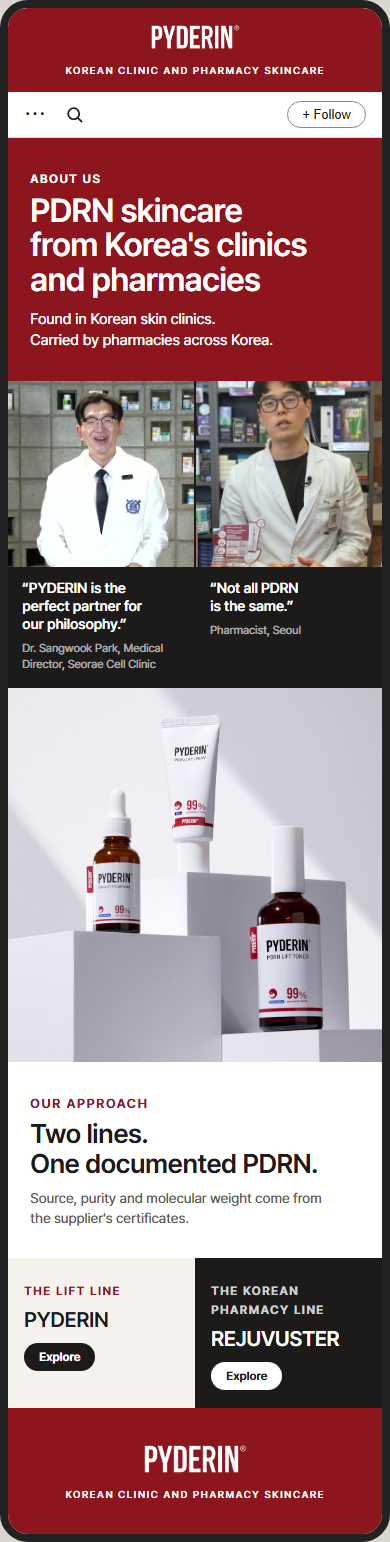
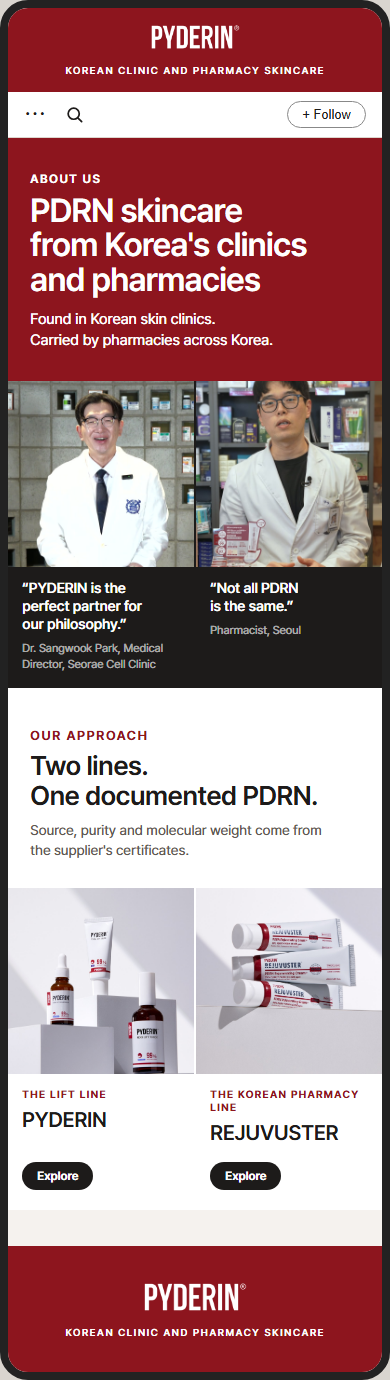
ABOUT US: 두 라인 문구 아래에 각 라인 사진 칸

diff --git a/index.html b/index.html
@@ -331,6 +331,7 @@
   .tiles div { position: absolute; left: 14px; right: 10px; top: 14px; }
   .tiles .eyebrow { font-size: 10.5px; color: var(--red); }
   .tiles b { display: block; font-size: 21px; font-weight: 600; letter-spacing: -.02em; margin: 6px 0 0; }
+  .t2 { background: #fff; } .t2 a { background: #fff; padding-bottom: 20px; } .t2 img { aspect-ratio: 1; } .t2 div { position: static; padding: 14px 14px 0; min-height: 76px; } .t2 u { position: static !important; display: inline-block; margin: 12px 14px 0; }
   .tiles u { position: absolute; left: 14px; bottom: 14px; text-decoration: none; font-size: 12px; font-weight: 600; background: var(--ink); color: #fff; border-radius: 999px; padding: 7px 15px; }
   /* v4 */
   .s4 { display: grid; grid-template-columns: 1fr 1fr; border-top: 1px solid var(--ink); margin: 0 22px; }
@@ -442,9 +443,8 @@
       <div><img src="img/dr-park.jpg" alt=""><p><q>PYDERIN is the perfect partner for our philosophy.</q><span>Dr. Sangwook Park, Medical Director, Seorae Cell Clinic</span></p></div>
       <div><img src="img/ph-byul2.jpg" alt=""><p><q>Not all PDRN is the same.</q><span>Pharmacist, Seoul</span></p></div>
     </div></div>
-  <div class="sec"><img src="img/v3/lift-blocks2.jpg" alt="" style="width:100%;aspect-ratio:1;object-fit:cover;object-position:50% 62%">
-    <div class="pq" style="padding:24px 22px 30px"><span class="eyebrow" style="color:var(--red);margin-bottom:8px">Our approach</span><q style="quotes:none;font-size:27px;font-weight:600;letter-spacing:-.025em;line-height:1.08">Two lines.<br>One documented PDRN.</q><span style="font-size:14px;line-height:1.45;max-width:300px">Source, purity and molecular weight come from the supplier's certificates.</span></div></div>
-  <div class="pair" style="gap:0"><a href="#pyderin" style="background:var(--ground);color:var(--ink);padding:22px 16px 24px"><span style="position:static;color:var(--red)">The Lift line</span><b style="display:block;font-size:21px;font-weight:600;letter-spacing:-.02em;margin:8px 0 14px">PYDERIN</b><u style="text-decoration:none;font-size:12px;font-weight:600;background:var(--ink);color:#fff;border-radius:999px;padding:7px 15px">Explore</u></a><a href="#rejuvuster" style="background:var(--ink);color:#fff;padding:22px 16px 24px"><span style="position:static;opacity:.8">The Korean pharmacy line</span><b style="display:block;font-size:21px;font-weight:600;letter-spacing:-.02em;margin:8px 0 14px">REJUVUSTER</b><u style="text-decoration:none;font-size:12px;font-weight:600;background:#fff;color:var(--ink);border-radius:999px;padding:7px 15px">Explore</u></a></div>
+  <div class="sec"><div class="pq" style="padding:30px 22px 28px"><span class="eyebrow" style="color:var(--red);margin-bottom:8px">Our approach</span><q style="quotes:none;font-size:27px;font-weight:600;letter-spacing:-.025em;line-height:1.08">Two lines.<br>One documented PDRN.</q><span style="font-size:14px;line-height:1.45;max-width:300px">Source, purity and molecular weight come from the supplier's certificates.</span></div>
+    <div class="tiles t2" style="margin-top:0"><a href="#pyderin"><img src="img/v3/lift-blocks2.jpg" alt="" style="object-position:50% 45%"><div><span class="eyebrow">The Lift line</span><b>PYDERIN</b></div><u>Explore</u></a><a href="#rejuvuster"><img src="img/v3/rj-stack.jpg" alt="" style="object-position:50% 85%"><div><span class="eyebrow">The Korean pharmacy line</span><b>REJUVUSTER</b></div><u>Explore</u></a></div></div>
   <div class="sec"><div class="end"><img src="img/logo-white.png" alt="PYDERIN" style="height:30px;margin:auto"><small>Korean clinic and pharmacy skincare</small></div></div></div>
   </div>
 </div>

diff --git a/review/index.html b/review/index.html
@@ -129,7 +129,7 @@
 <div class="blk"><div><h2>14. ABOUT US 페이지</h2><img src="sec/s14.png" alt=""></div><div class="scroll"><table><tr><th>번호</th><th>위치</th><th>국문 원문</th><th>영문 (가안)</th><th>근거·출처</th><th>확인 요청 사항</th><th>상품기획팀 확인</th><th>해외영업팀 영문 검수</th></tr>
 <tr><td>14-1</td><td class="pos">꼬리표 · 제목</td><td class="ko">브랜드 소개 · 한국 병의원과 약국에서 온 PDRN 스킨케어</td><td class="en">ABOUT US · PDRN skincare from Korea&#x27;s clinics and pharmacies</td><td class="src">소개서 병의원·약국 라인</td><td class="ask"></td><td class="box"></td><td class="box"></td></tr>
 <tr><td>14-2</td><td class="pos">한 문장</td><td class="ko">한국 피부과·의원에서 만나고, 한국 전역의 약국에서 취급합니다.</td><td class="en">Found in Korean skin clinics. Carried by pharmacies across Korea.</td><td class="src">소개서, 데일리팜 2026-07-22</td><td class="ask">2-3번, 13-2번과 같은 확인</td><td class="box"></td><td class="box"></td></tr>
-<tr><td>14-3</td><td class="pos">사진</td><td class="ko">(원장·약사 인터뷰 영상 정지 화면 2장 / 리프트 3종 스튜디오 연출 컷)</td><td class="en">(photos)</td><td class="src">인터뷰 영상, NAS 디자인팀 제품 촬영본</td><td class="ask">원장·약사 사용 동의</td><td class="box"></td><td class="box"></td></tr>
+<tr><td>14-3</td><td class="pos">사진</td><td class="ko">(원장·약사 인터뷰 영상 정지 화면 2장 / 두 라인 칸: 리프트 연출 컷, 리쥬부스터 연출 컷)</td><td class="en">(photos)</td><td class="src">인터뷰 영상, NAS 디자인팀 제품 촬영본</td><td class="ask">원장·약사 사용 동의</td><td class="box"></td><td class="box"></td></tr>
 <tr><td>14-4</td><td class="pos">한마디 1</td><td class="ko">&quot;피더린은 저희 철학과 가장 잘 맞는 파트너라고 생각합니다.&quot; — 박상욱 대표원장, 서래셀클리닉</td><td class="en">&quot;PYDERIN is the perfect partner for our philosophy.&quot; — Dr. Sangwook Park, Medical Director, Seorae Cell Clinic</td><td class="src">원장 인터뷰 원본 영상</td><td class="ask">4-3, 4-4번과 같은 확인</td><td class="box"></td><td class="box"></td></tr>
 <tr><td>14-5</td><td class="pos">한마디 2</td><td class="ko">&quot;다 같은 PDRN이 아닙니다.&quot; — 약사, 서울</td><td class="en">&quot;Not all PDRN is the same.&quot; — Pharmacist, Seoul</td><td class="src">별하약국 약사 인터뷰</td><td class="ask">약사 이름 표기 여부, 사용 동의</td><td class="box"></td><td class="box"></td></tr>
 <tr><td>14-6</td><td class="pos">라인 칸</td><td class="ko">우리의 방식 · 두 라인. 서류로 확인한 하나의 PDRN. 출처, 순도, 분자량은 원료사 증명서에 따릅니다.</td><td class="en">OUR APPROACH · Two lines. One documented PDRN. Source, purity and molecular weight come from the supplier&#x27;s certificates.</td><td class="src">제노큐어 서류</td><td class="ask">두 라인이 같은 PDRN 원료를 쓰는지</td><td class="box"></td><td class="box"></td></tr>
